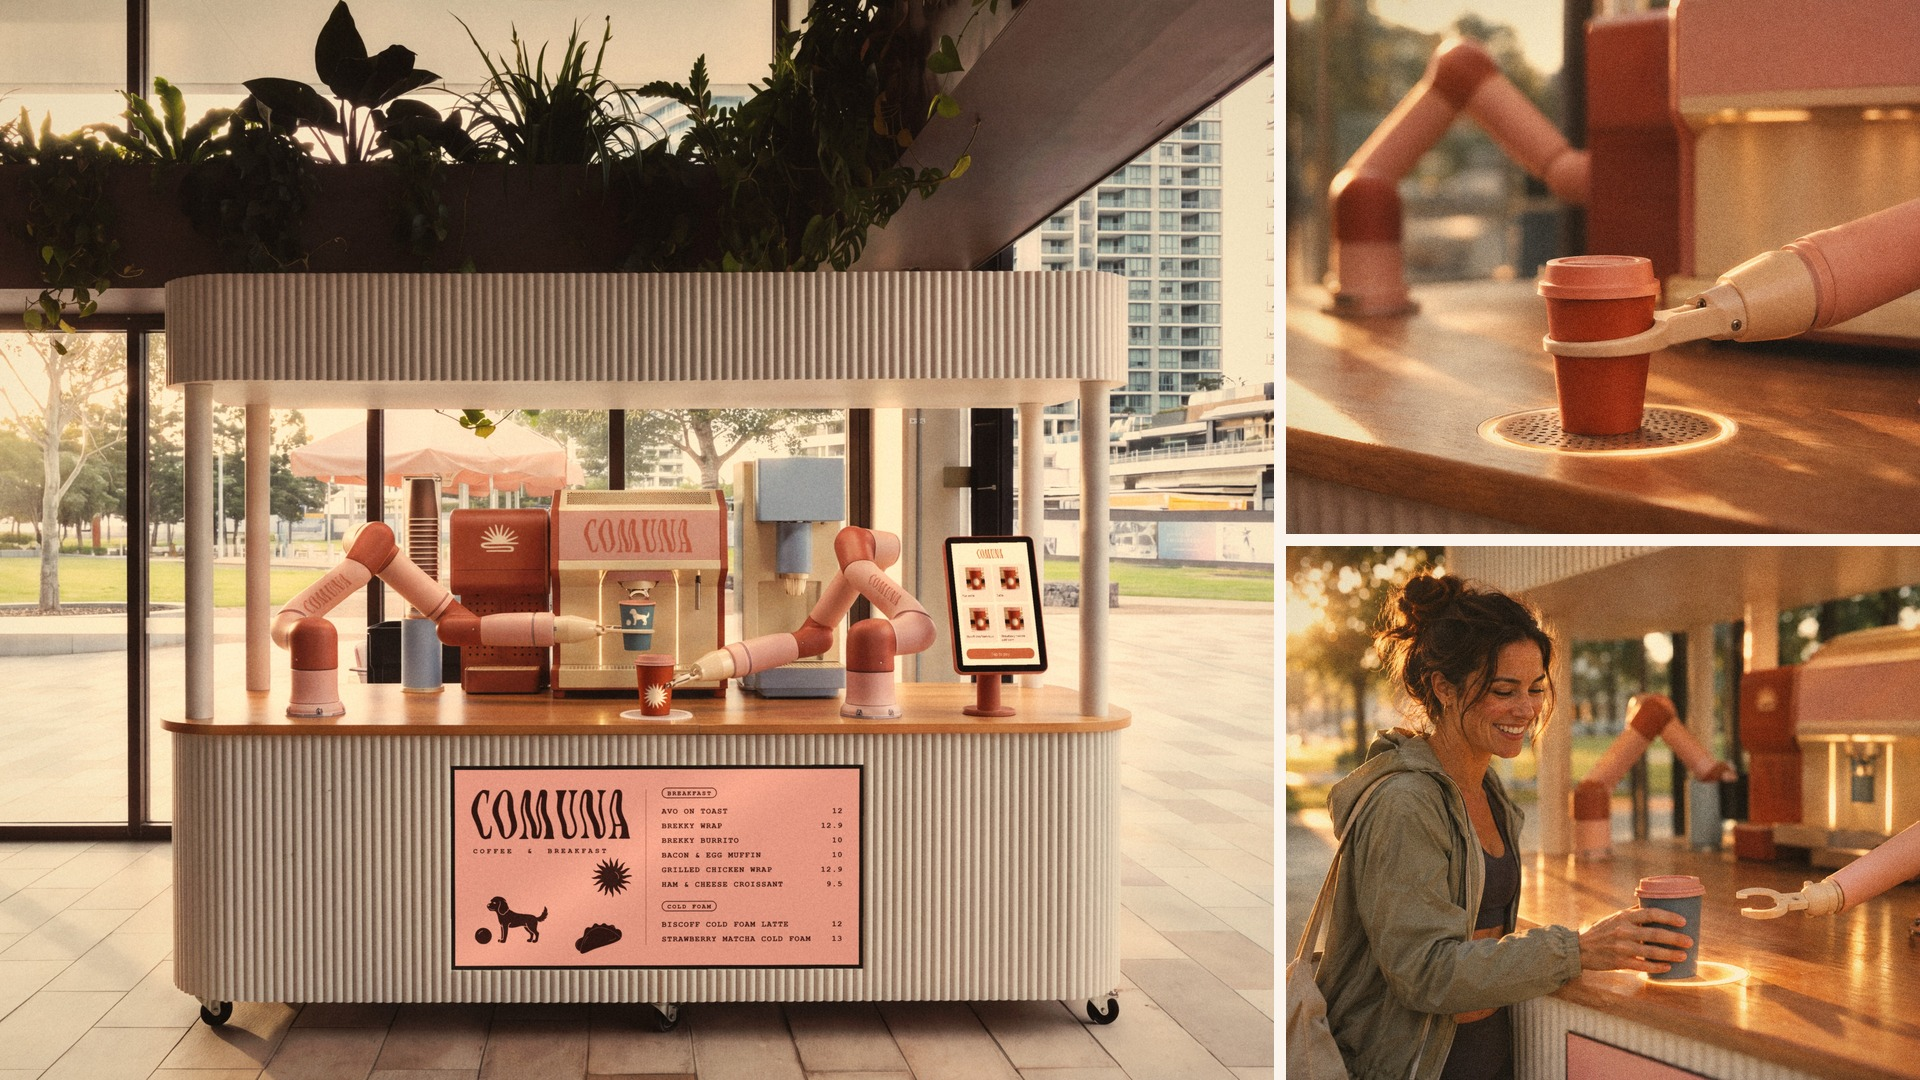
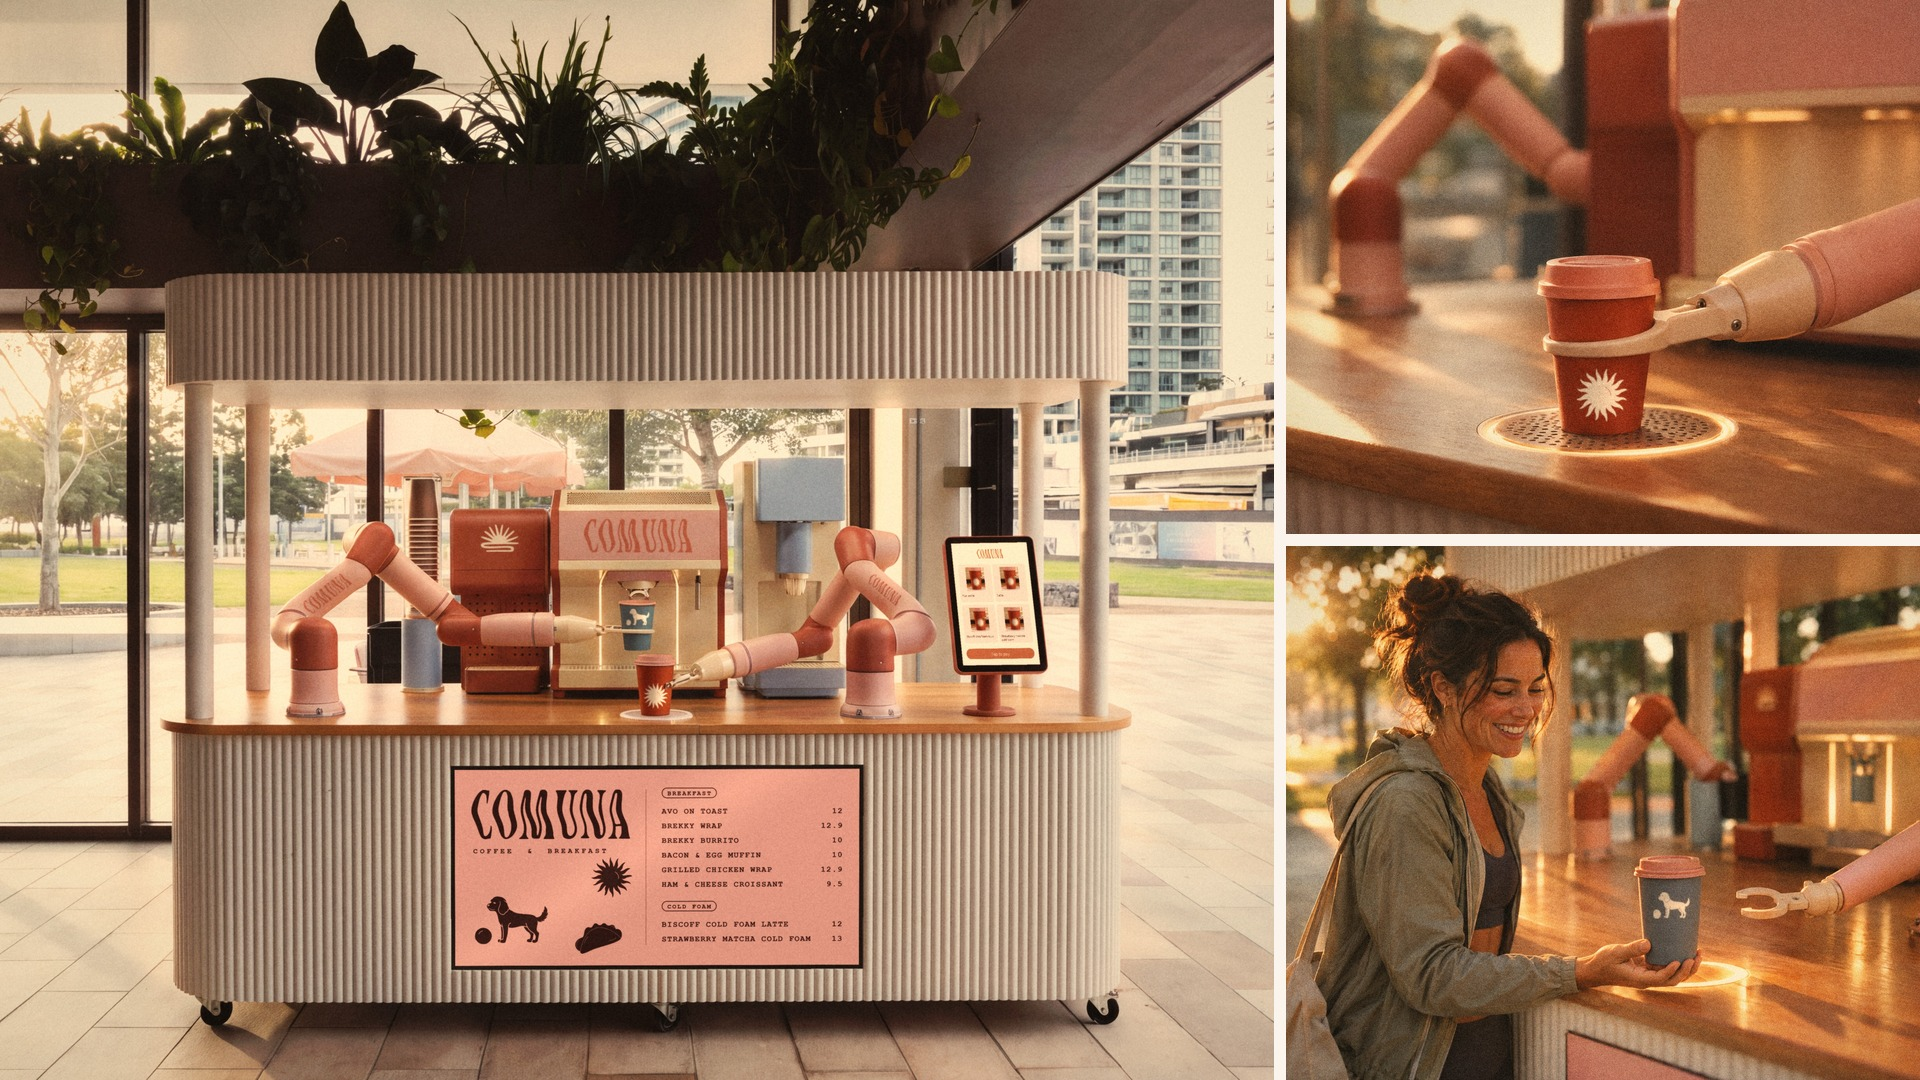
Comuna deck: the coffee machine on light blue, the cups branded
Jesse: "use the light blue bg on this one and this entire slide", "make
sure the cups are branded"; the ghost kitchen session's rebuilt slides,
the machine slide's ground set to the same #DCE0EC.

Changed region(s): [[0.75, 0.7944, 0.9062, 0.9472], [0.8125, 0.3361, 0.8438, 0.3972], [0.7188, 0.5806, 0.75, 0.6111]]

diff --git a/src/comuna-slides.html b/src/comuna-slides.html
@@ -122,7 +122,7 @@
 </section>
 
 <section class="stage" id="s{{i}}" aria-label="Slide {{i}}. The coffee cart, the machine">
-  <div class="slide"><div class="in full poster cm-poster cm-whole" style="--ground:#FBD7DB">
+  <div class="slide"><div class="in full poster cm-poster cm-whole" style="--ground:#DCE0EC">
     <div class="plate"><img src="{{root}}img/deck/comuna/art/03-coffee-machine.jpg" width="1920" height="1080" alt="Concept: the coffee cart clean on blush, every part branded. 2 arms, about 0.6 m reach. About 1 min a latte, the maker's figure. Up to 60 cups an hour, to be timed"></div>
   </div></div>
 </section>

diff --git a/deck/comuna/index.html b/deck/comuna/index.html
@@ -601,7 +601,7 @@
 </section>
 
 <section class="stage" id="s4" aria-label="Slide 4. The coffee cart, the machine">
-  <div class="slide"><div class="in full poster cm-poster cm-whole" style="--ground:#FBD7DB">
+  <div class="slide"><div class="in full poster cm-poster cm-whole" style="--ground:#DCE0EC">
     <div class="plate"><img src="../../img/deck/comuna/art/03-coffee-machine.jpg" width="1920" height="1080" alt="Concept: the coffee cart clean on blush, every part branded. 2 arms, about 0.6 m reach. About 1 min a latte, the maker's figure. Up to 60 cups an hour, to be timed"></div>
   </div></div>
 </section>
